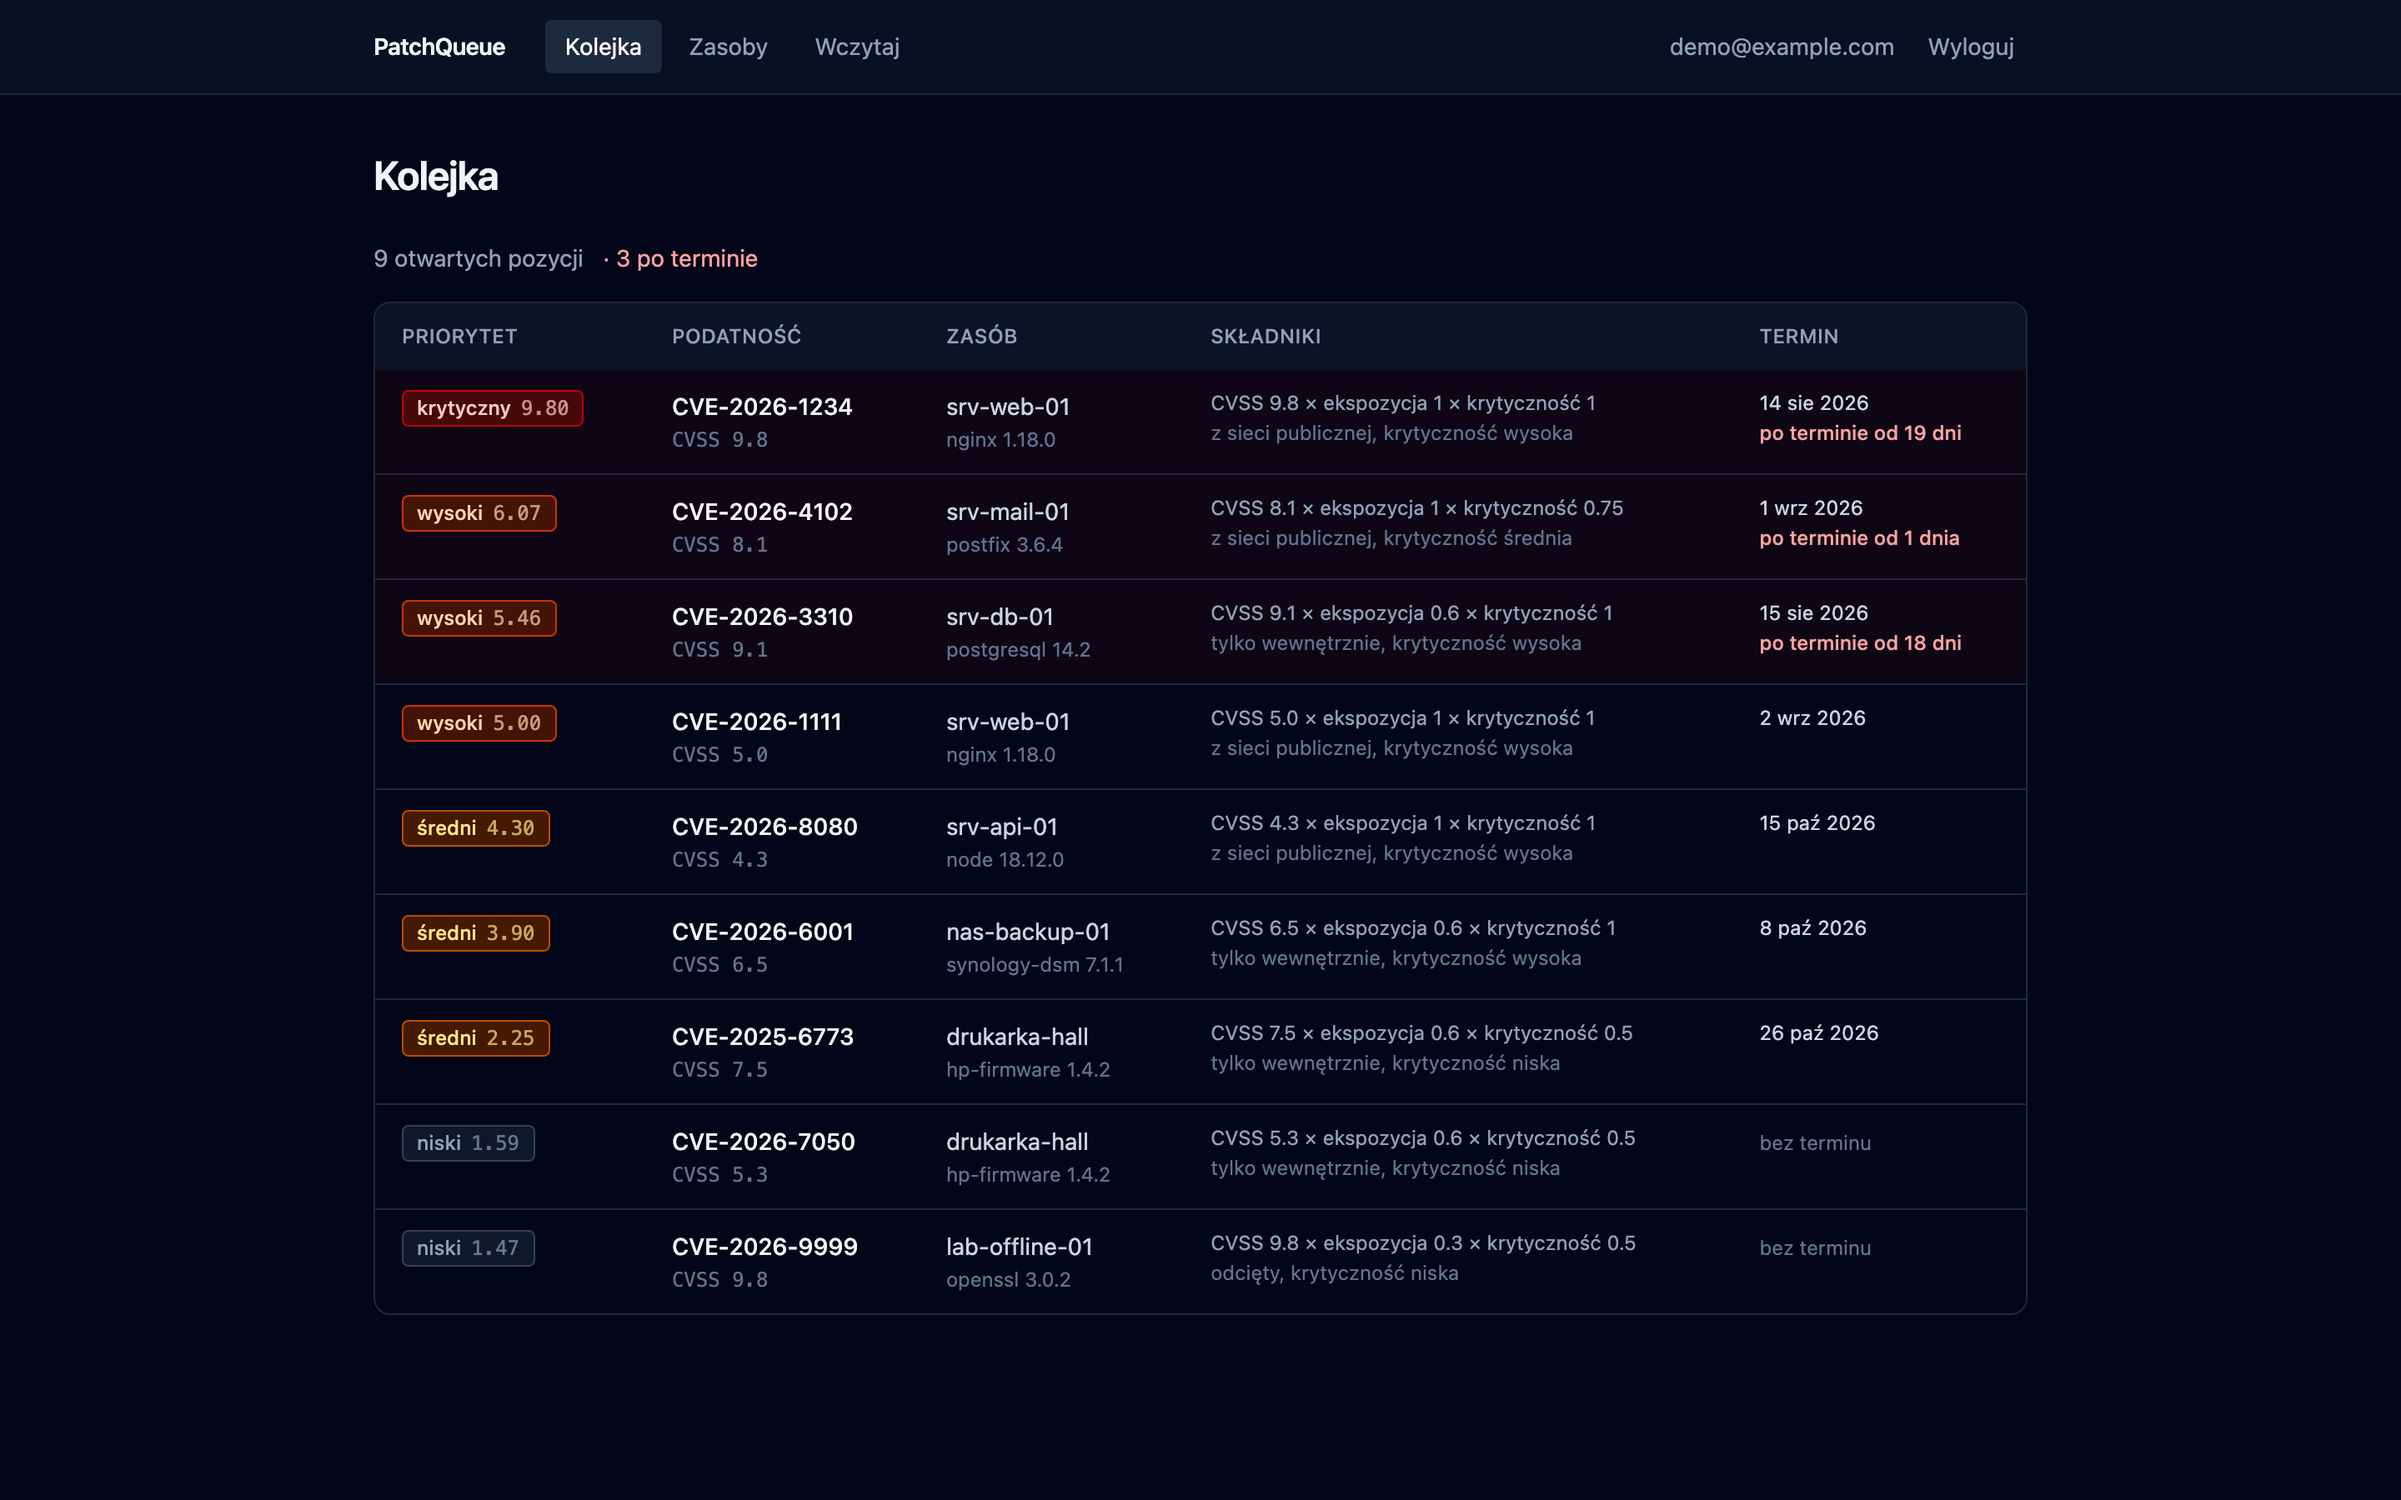
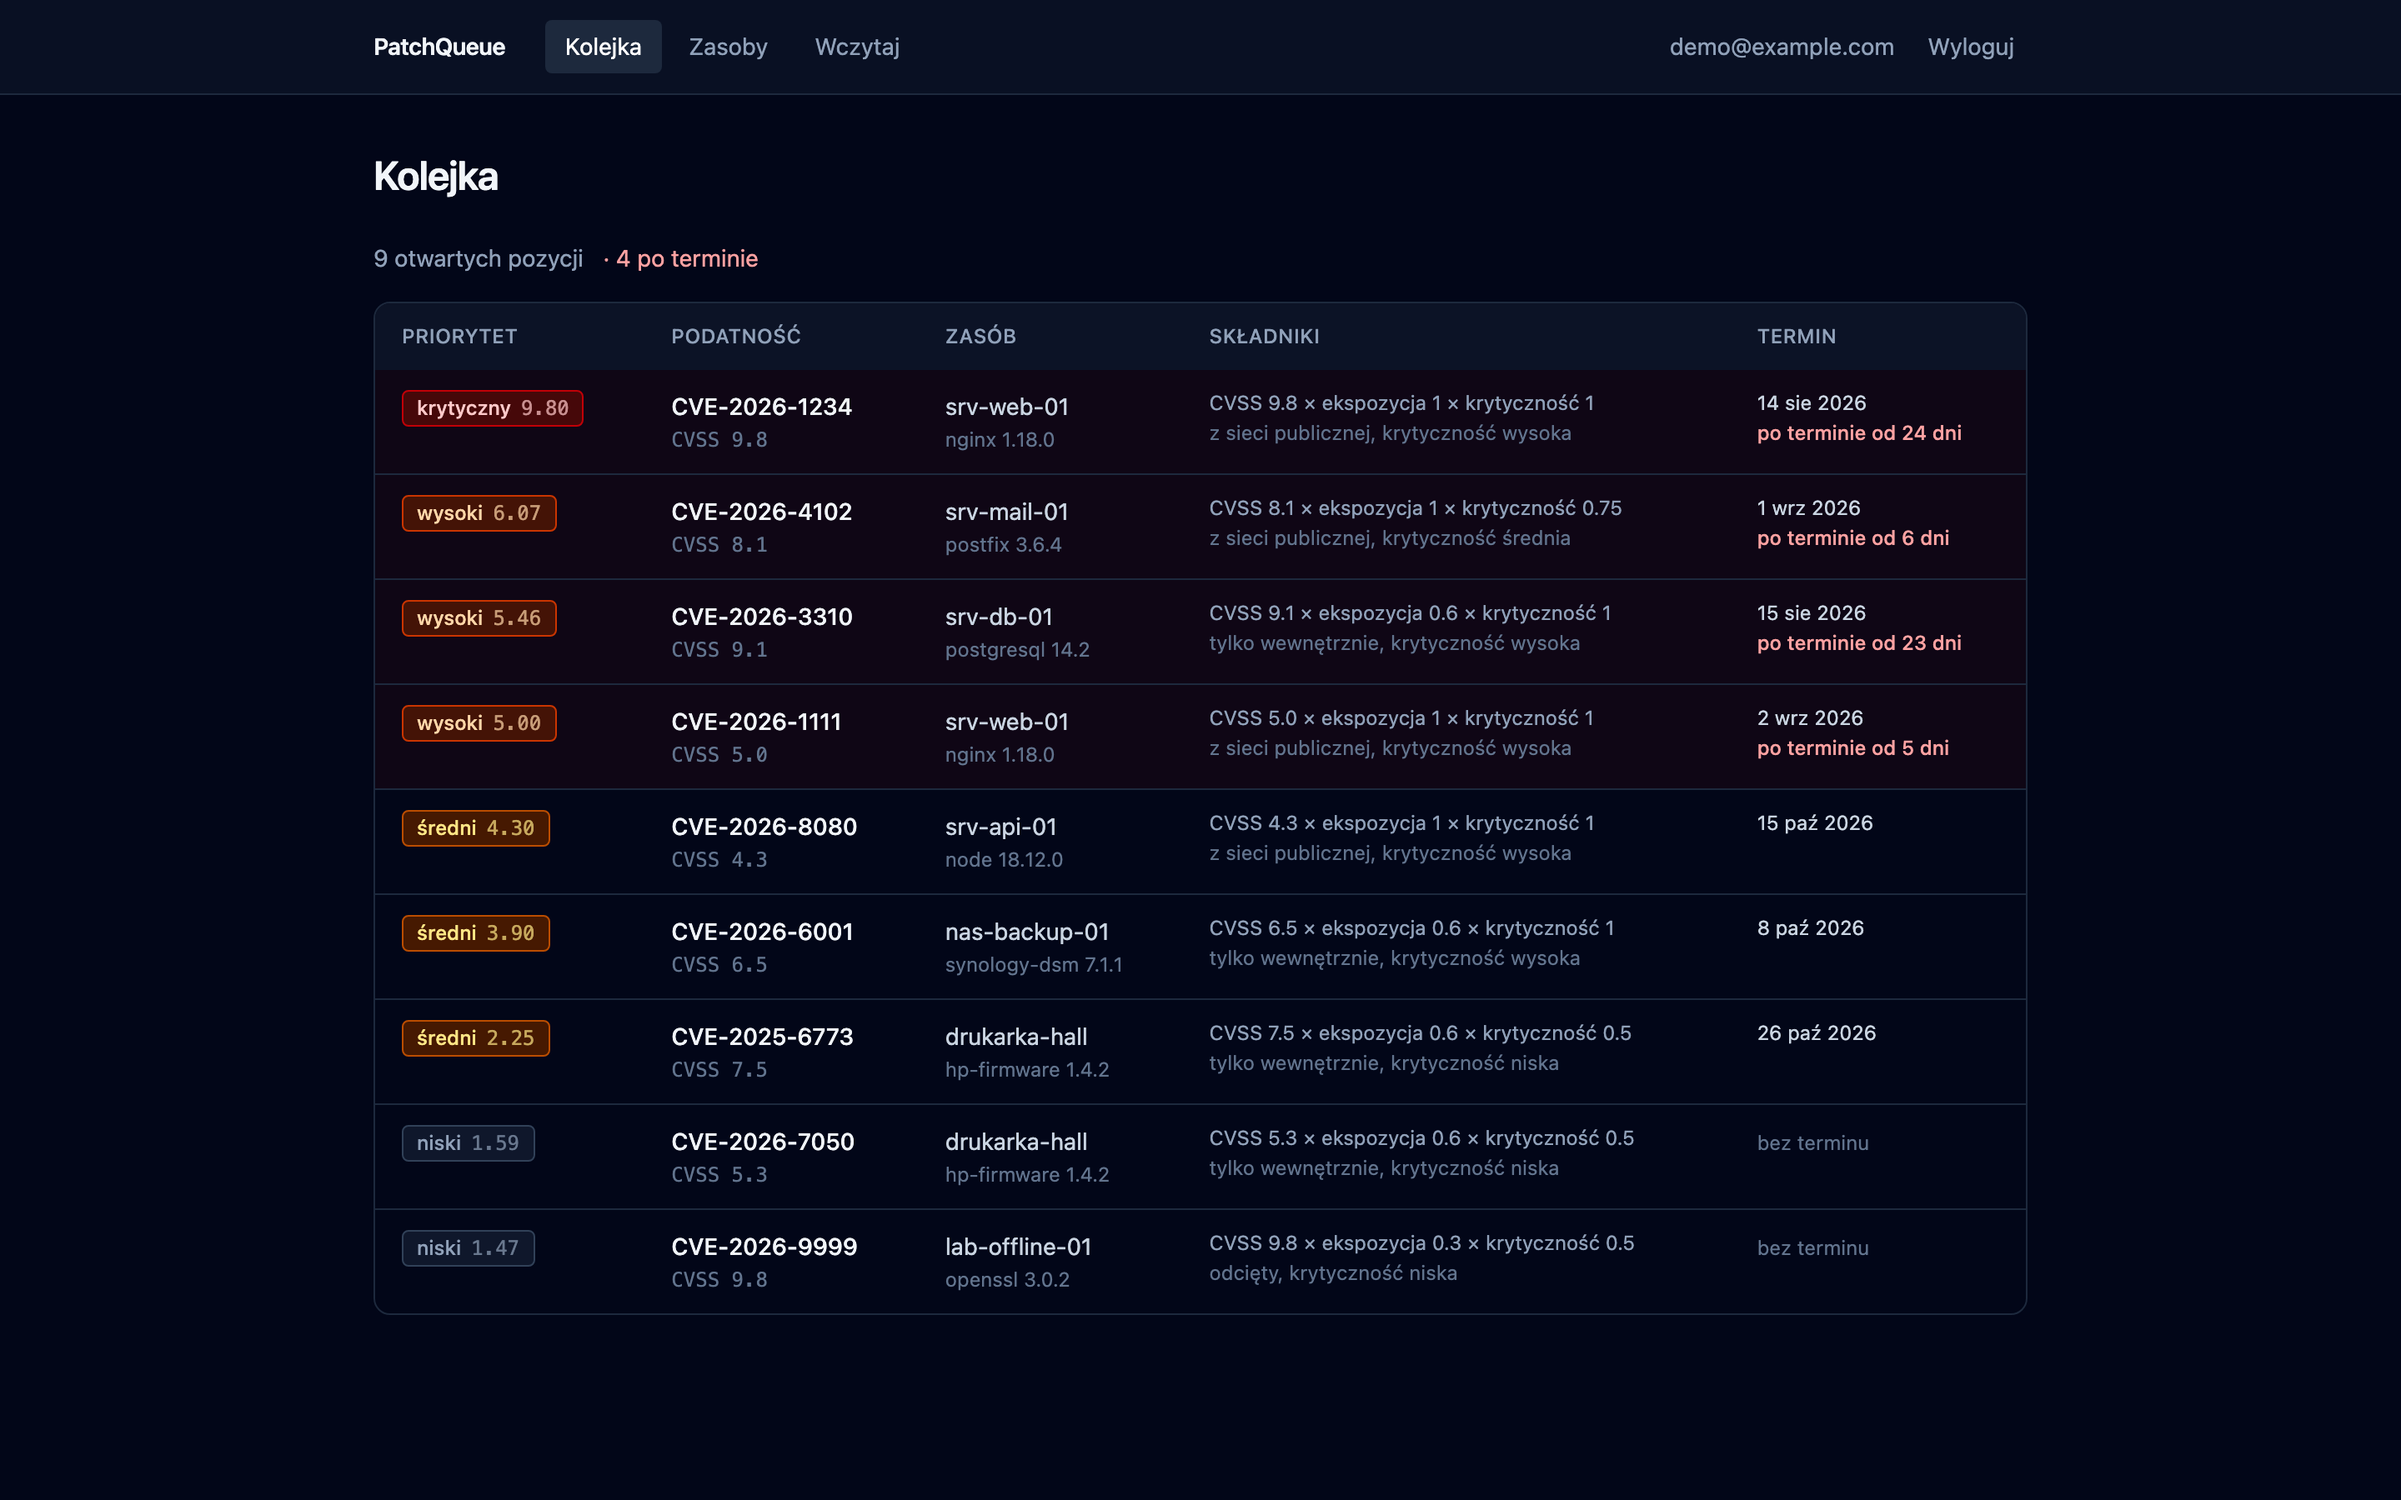
Zrzuty ekranu ze strona wejsciowa
Zestaw zrzutow zaczyna sie od strony wejsciowej - pierwszego ekranu, ktory
widzi ktos, kto zna wylacznie adres aplikacji. Dalej logowanie, kolejka,
skladniki priorytetu, zasoby z liczba otwartych pozycji, wczytywanie oraz
odmowa usuniecia zasobu z otwartymi pozycjami.

Selektor naglowka zawezony do poziomu pierwszego: bez tego trafial w dwa
naglowki naraz - h1 z teza produktu i h2 z przykladem - i Playwright odrzucal
go jako niejednoznaczny.

diff --git a/scripts/screenshots/capture.spec.ts b/scripts/screenshots/capture.spec.ts
@@ -19,7 +19,7 @@ test("zrzuty ekranu do zgłoszenia", async ({ page }) => {
 
   // 1. Strona wejściowa — pierwsze, co widzi ktoś, kto zna tylko adres
   await page.goto("/");
-  await expect(page.getByRole("heading", { name: /Ta sama podatność/ })).toBeVisible();
+  await expect(page.getByRole("heading", { level: 1, name: /Ta sama podatność/ })).toBeVisible();
   await page.waitForLoadState("networkidle");
   await page.screenshot({ path: `${DIR}/00-strona-wejsciowa.png`, fullPage: true });
 
